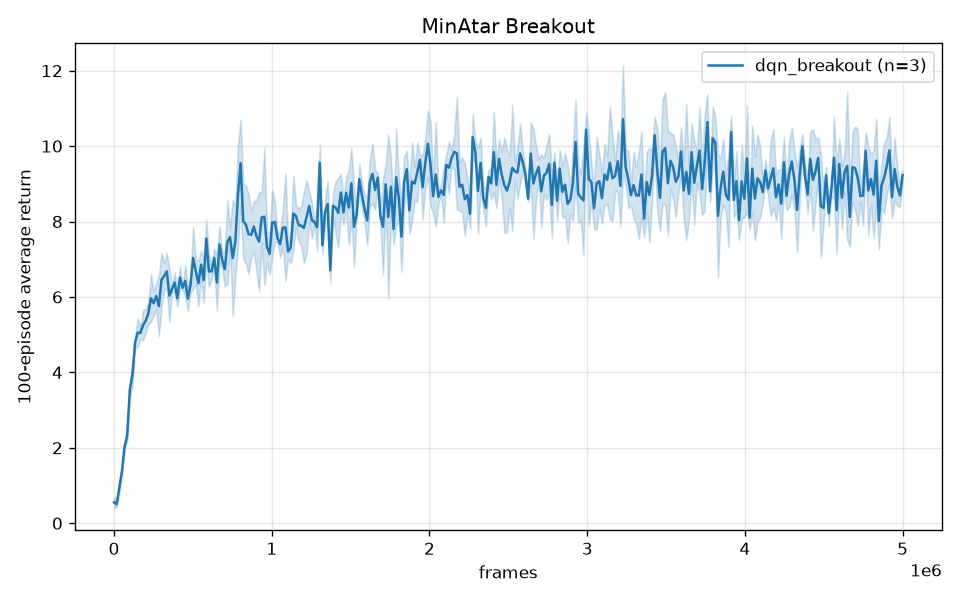
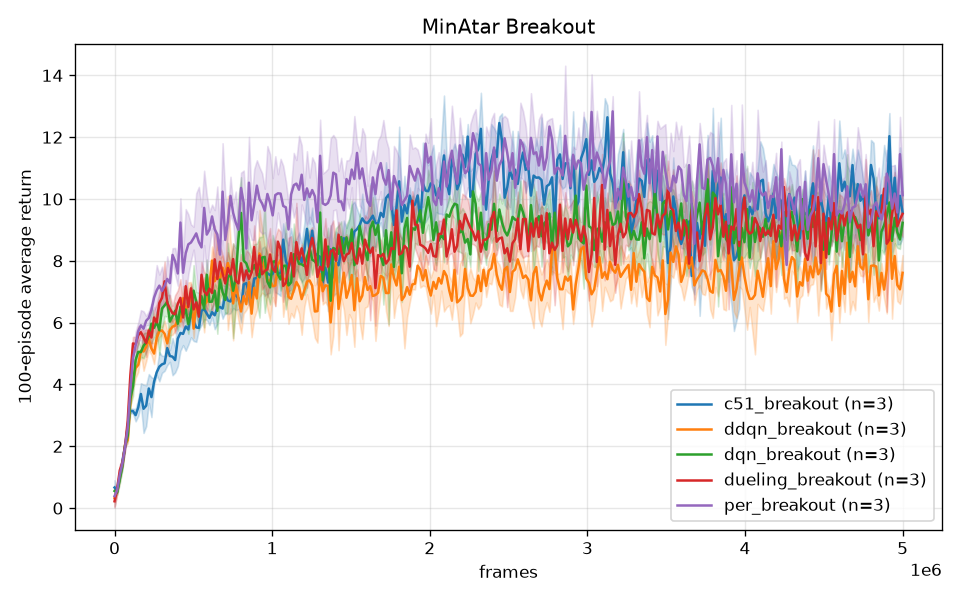
Benchmark Double DQN, Dueling, PER, C51 vs DQN baseline (3 seeds x 5M)
PER +0.89 is the only gain beyond seed noise; Dueling +0.29 and C51 +0.33
are within one std; Double DQN -1.62 hurts on this env. Returns peak
mid-training then settle (difficulty ramping + fixed eps floor).

Claude-Session: https://claude.ai/code/session_01Rs8zcQ2nuZGTaHefeUV6PB

diff --git a/README.md b/README.md
@@ -35,17 +35,41 @@ Logs go to `runs/<name>`. View with `uv run tensorboard --logdir runs`.
 `uv run python aggregate.py` overlays each variant as a mean ± std band across
 seeds (`assets/learning_curves.png`).
 
-| Variant | Breakout (3 seeds, 5M frames) |
-|---------|-------------------------------|
-| DQN     | 9.23 ± 0.13                   |
+| Variant       | Breakout (3 seeds, 5M frames) | vs DQN |
+|---------------|-------------------------------|--------|
+| DQN           | 9.23 ± 0.13                   | —      |
+| + Double DQN  | 7.61 ± 0.57                   | -1.62  |
+| + Dueling     | 9.52 ± 0.74                   | +0.29  |
+| + PER         | 10.12 ± 0.71                  | +0.89  |
+| + C51         | 9.56 ± 0.83                   | +0.33  |
+
+Each row adds one component to the DQN baseline in isolation (independent
+ablations, not cumulative). Values are the 100-episode average return at 5M
+frames, mean ± std over seeds 1–3.
+
+**What each component contributed:**
+
+- **PER** (+0.89) is the only component whose gain clearly exceeds seed noise.
+- **Dueling** (+0.29) and **C51** (+0.33) are small positives, well within one
+  standard deviation of the baseline — not distinguishable from noise at 3 seeds.
+- **Double DQN** (-1.62) actually hurt. On MinAtar Breakout the overestimation that
+  Double DQN corrects isn't severe, so the decoupled target lookup mostly slows
+  value propagation here — a reminder that Rainbow components aren't universally
+  beneficial.
+
+Returns peak mid-training (~2.5–3.5M frames, ~13–15) then settle lower by 5M,
+driven by MinAtar's difficulty ramping plus the fixed ε = 0.1 floor; this affects
+the DQN baseline identically, so it's not a regression. Final@5M is reported for
+comparability with the MinAtar reference — see `assets/learning_curves.png` for the
+full curves.
 
 ## Roadmap
 
-- [x] DQN baseline
-- [ ] Double DQN — implemented (`--double`), not yet benchmarked
-- [ ] Dueling network — implemented (`--dueling`), not yet benchmarked
-- [ ] Prioritized experience replay — implemented (`--per`), not yet benchmarked
-- [ ] C51 (distributional) — implemented (`--c51`), not yet benchmarked
+- [x] DQN baseline — 9.23 ± 0.13
+- [x] Double DQN (`--double`) — 7.61 ± 0.57 (-1.62 vs DQN; hurts on this env)
+- [x] Dueling network (`--dueling`) — 9.52 ± 0.74 (+0.29; within noise)
+- [x] Prioritized experience replay (`--per`) — 10.12 ± 0.71 (+0.89; clearest gain)
+- [x] C51 (distributional) (`--c51`) — 9.56 ± 0.83 (+0.33; within noise)
 
-Each component is added on its own, evaluated over multiple seeds against the
-previous baseline, and written up.
+Each component is added on its own to the DQN baseline (independent ablations),
+evaluated over 3 seeds, and written up above.
